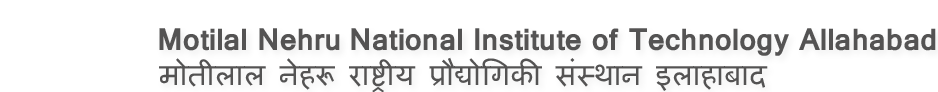
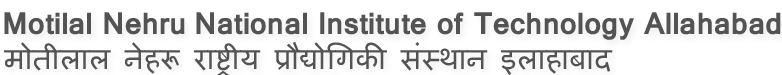
image change

diff --git a/PresentEmployer.html b/PresentEmployer.html
@@ -35,7 +35,7 @@
       <div class="navbar-header" >
         <a class="navbar-brand" href="#">
           <img class="img-fluid float-left" src="Images/form-background.png"  style="margin-left: 5rem;max-width: 7%; height: auto">
-          <img class="img-fluid " src="Images/name3.png"  style="margin-left: 3rem;max-width: 80%;height: auto">
+          <img class="img-fluid " src="Images/mnnit name.png"  style="margin-left: 3rem;max-width: 80%;height: auto">
         </a>
       </div>
     </div>
